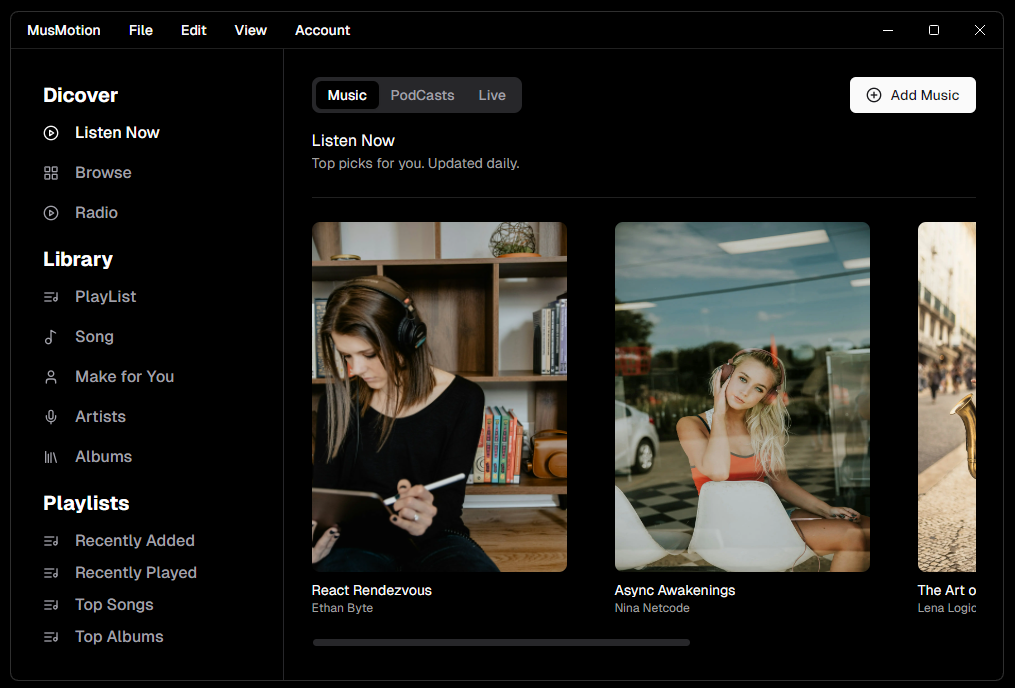
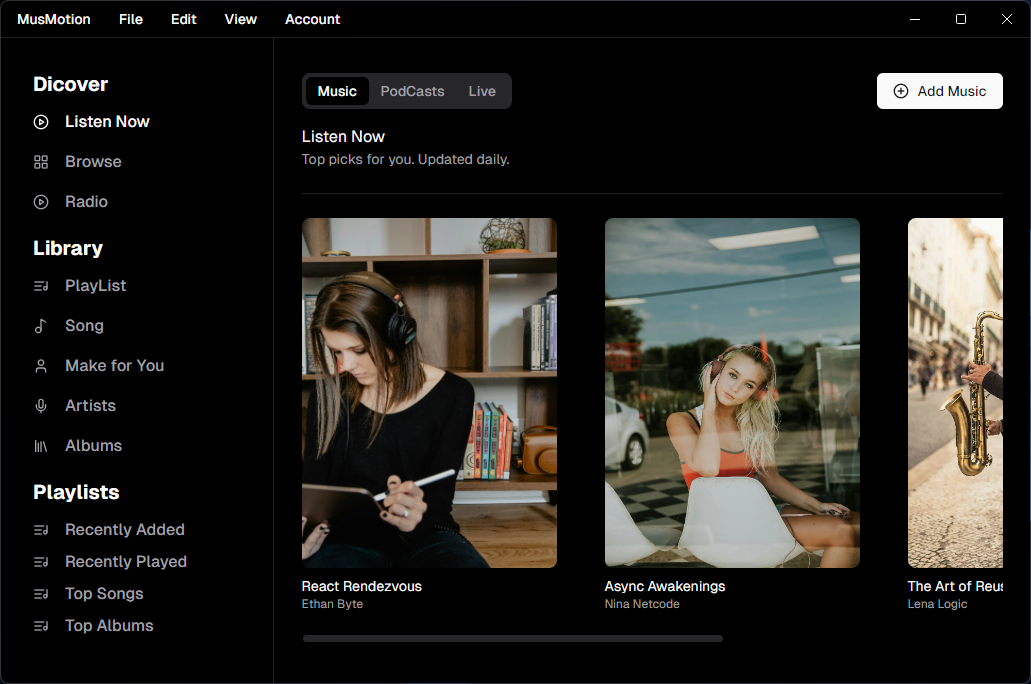
Update

diff --git a/main.js b/main.js
@@ -1,0 +1,33 @@
+import { app, BrowserWindow } from "electron";
+
+function createWindow() {
+  const win = new BrowserWindow({
+    width: 1040,
+    height: 670,
+    frame: false,
+    titleBarStyle: "hidden",
+    titleBarOverlay: {
+	  color:"#000",
+      symbolColor: "#fff",
+      height: 37,
+    }, // Loại bỏ khung mặc định của hệ điều hành
+  });
+
+  win.loadURL("http://localhost:3000/docs");
+}
+
+app.whenReady().then(() => {
+  createWindow();
+
+  app.on("activate", () => {
+    if (BrowserWindow.getAllWindows().length === 0) {
+      createWindow();
+    }
+  });
+});
+
+app.on("window-all-closed", () => {
+  if (process.platform !== "darwin") {
+    app.quit();
+  }
+});
